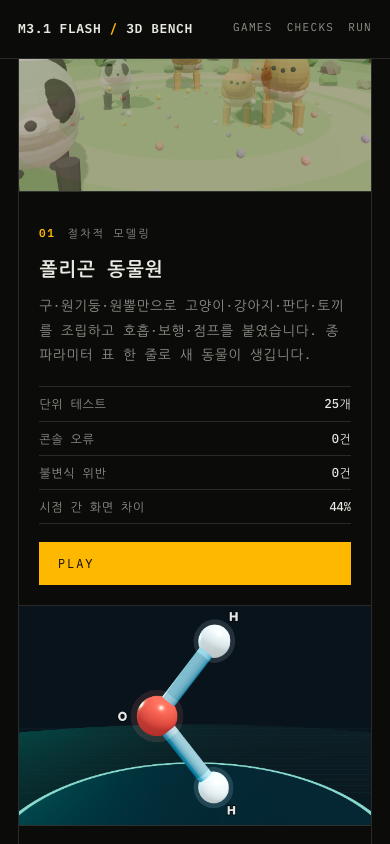
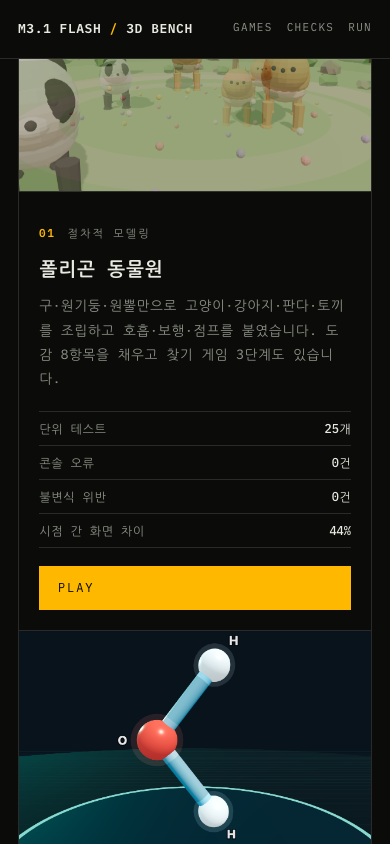
docs: 랜딩 카드 설명과 README를 새 기능에 맞춰 갱신

diff --git a/index.html b/index.html
@@ -691,7 +691,7 @@
               <h3>폴리곤 동물원</h3>
               <p class="card-desc">
                 구·원기둥·원뿔만으로 고양이·강아지·판다·토끼를 조립하고 호흡·보행·점프를 붙였습니다.
-                종 파라미터 표 한 줄로 새 동물이 생깁니다.
+                도감 8항목을 채우고 찾기 게임 3단계도 있습니다.
               </p>
               <dl class="card-checks">
                 <div>
@@ -729,8 +729,8 @@
               <p class="card-index"><b>02</b> 화학 교육</p>
               <h3>3D 분자 빌더</h3>
               <p class="card-desc">
-                원자를 놓고 결합으로 이어 붙여 물·메테인·암모니아·이산화탄소를 만듭니다.
-                VSEPR 규칙으로 결합각(물 104.5°)까지 맞춰 모양을 잡아줍니다.
+                원자를 놓고 결합으로 이어 붙여 일곱 분자를 만듭니다.
+                VSEPR 규칙으로 결합각(물 104.5°)까지 맞춰 모양을 잡고, 레벨마다 점수를 받습니다.
               </p>
               <dl class="card-checks">
                 <div>
@@ -768,8 +768,8 @@
               <p class="card-index"><b>03</b> 실시간 전략</p>
               <h3>3D 타워 디펜스</h3>
               <p class="card-desc">
-                길에 고속·강력·범위 타워 3종을 세워 5개 웨이브의 적을 막습니다.
-                조준 규칙, 범위 피해, 골드 관리까지 전부 들어 있습니다.
+                길에 고속·강력·범위 타워 3종을 세워 8개 웨이브의 적을 막습니다.
+                난이도 3단계와 별점 기록, 조준 규칙과 범위 피해까지 들어 있습니다.
               </p>
               <dl class="card-checks">
                 <div>

diff --git a/README.md b/README.md
@@ -7,10 +7,10 @@ MiniMax M3.1 Flash(`minimax-m3.1-flash-free`)가 three.js 3D 구현을 어디까
 
 | 폴더 | 게임 | 검증하는 능력 | 판정 |
 |---|---|---|---|
-| [`zoo/`](zoo/) | 폴리곤 동물원 | 절차적 지오메트리 조립 + 애니메이션 | 없음(쇼케이스) |
-| [`molecule/`](molecule/) | 3D 분자 빌더 | 클릭 상호작용 + 화학 규칙 + 판정 | 있음(정답/해설) |
-| [`defense/`](defense/) | 3D 타워 디펜스 | 실시간 상태 머신 + 경로 + 전투 | 있음(승패) |
-| [`shapes/`](shapes/) | 3D 도형 조립실 | 3D 회전 + 격자 배치 + 형상 판정 | 있음(칸 단위 일치) |
+| [`zoo/`](zoo/) | 폴리곤 동물원 | 절차적 지오메트리 조립 + 애니메이션 | 도감 8항목 · 찾기 게임 3단계 |
+| [`molecule/`](molecule/) | 3D 분자 빌더 | 클릭 상호작용 + 화학 규칙 + 판정 | 분자 7종 · 레벨 2단계 · 점수 |
+| [`defense/`](defense/) | 3D 타워 디펜스 | 실시간 상태 머신 + 경로 + 전투 | 난이도 3단계 · 별점 기록 |
+| [`shapes/`](shapes/) | 3D 도형 조립실 | 3D 회전 + 격자 배치 + 형상 판정 | 레벨 8단계 · 칸 단위 판정 |
 
 공통 부분(저장·진행·결과 화면)은 [`common/`](common/) 에 있고, 게임 규칙은 각 폴더에
 남습니다.
@@ -94,7 +94,7 @@ node scripts/shot.mjs landing
 | 3층 화면 판정 | `scripts/shot.mjs` | 안 보이는 것, 빈 장면 | `node scripts/shot.mjs <게임>` |
 
 1층 테스트는 게임 폴더 안에 있습니다(`*/src/*.test.js`). 부모 저장소의 vitest가 자동으로 수집하므로 `npm test` 한 번이면 전부 돕니다. `three`는 브라우저(CDN)와 Node(테스트) 양쪽에서 **같은 버전 0.186.1**을 씁니다.
-단위 테스트는 **86개**입니다(게임 70 + 공통 16).
+단위 테스트는 **120개**입니다(게임 104 + 공통 16).
 
 ## 코딩 규칙 (3D에서 반복해서 겪은 실패에서 온 것)
 
@@ -163,5 +163,6 @@ node scripts/shot.mjs landing
 
 ## 내역
 
+- 2026-10-20: 게임마다 진행 기능을 추가. zoo(도감 + 찾기 게임), molecule(레벨 + 점수, 분자 7종), defense(난이도 3단계 + 별점 기록).
 - 2026-10-20: 3D 도형 조립실(4번째 게임) 추가. 24회전군을 생성하는 순수 함수와 칸 단위 판정, `common/` 공통 계층(저장·진행·결과 화면) 도입.
 - 2026-10-19: 3D 게임 3종(폴리곤 동물원 · 3D 분자 빌더 · 3D 타워 디펜스)과 랜딩 페이지 추가. 검증 3층(단위 테스트 45개 · 기하 불변식 · 4시점 화면 판정) 완비, GitHub Pages 배포.
